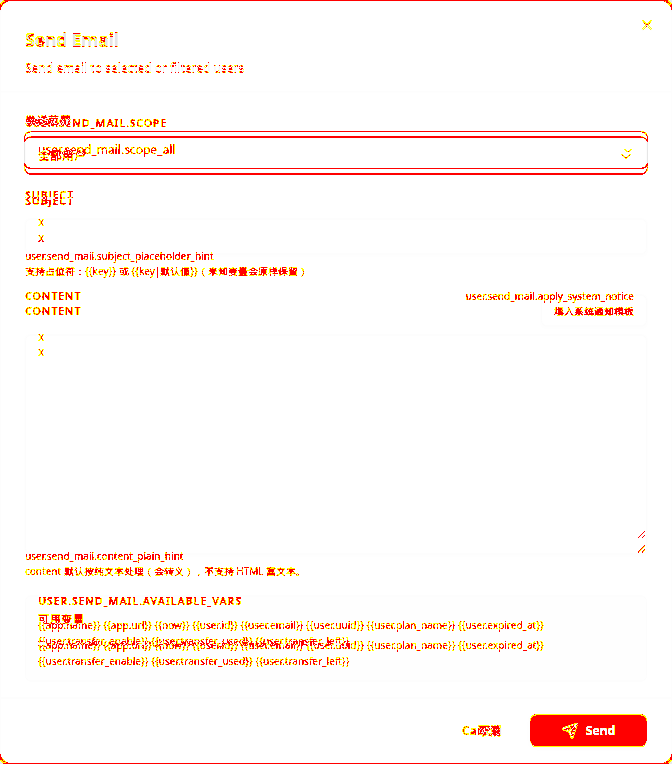
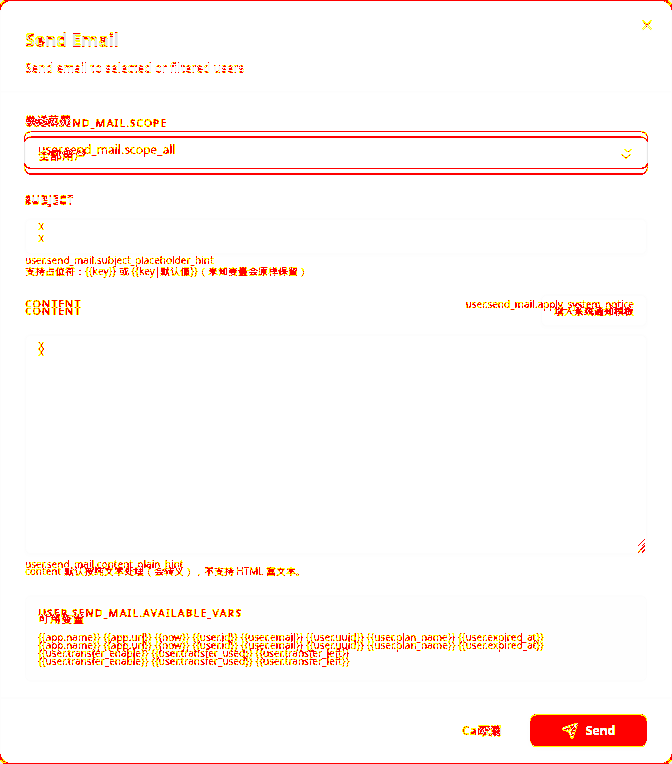
fix(admin): dialog layout parity round 2 — plan prices, user-edit sheet, gift flat sections
- Plan add: remove per-period ¥ prefix spans, xb-stack-gap rhythm, h=810
- User edit: unwrap flex wrapper so fields match legacy space-y-2 blocks
- User create: @ separator as span, tighter grid gap
- User mail: xb-stack-gap form rhythm, fixed textarea height
- Gift template: remove rounded-xl card wrappers, h=810
- Server add: h=838 to match 7001 screenshot dimensions
- Login: bg-white container

diff --git a/frontend/admin/src/pages/modules/UserPage.tsx b/frontend/admin/src/pages/modules/UserPage.tsx
@@ -1142,8 +1142,8 @@ export default function UserPage() {
               {t('user.send_mail.description')}
             </DialogDescription>
           </DialogHeader>
-          <div className="min-h-0 flex-1 overflow-y-auto bg-background">
-            <div className="space-y-4 px-6 py-4 text-sm">
+          <div className="min-h-0 flex-1 overflow-y-auto">
+            <div className="xb-stack-gap px-6 py-4 text-sm">
               <div className="space-y-2">
                 <label className={dialogFieldLabelCls}>{t('user.send_mail.scope')}</label>
                 <Select
@@ -1201,7 +1201,7 @@ export default function UserPage() {
                 </div>
                 <textarea
                   id="mail-content"
-                  className={`${textareaCls} min-h-[220px] font-mono text-xs`}
+                  className={`${inputCls} !min-h-[220px] py-2 font-mono text-xs`}
                   value={mailContent}
                   onChange={(e) => setMailContent(e.target.value)}
                   placeholder={t('user.send_mail.content_placeholder')}
@@ -1266,7 +1266,7 @@ export default function UserPage() {
             <DialogTitle>{t('user.generate.title')}</DialogTitle>
           </DialogHeader>
           <div className="min-h-0 flex-1 overflow-y-auto">
-            <div className="space-y-4 px-6 py-4 text-sm">
+            <div className="xb-stack-gap px-6 py-4 text-sm">
             <div className="space-y-2">
               <Label className={dialogFieldLabelCls}>
                 {t('user.generate.form.email')}
@@ -1283,13 +1283,13 @@ export default function UserPage() {
                     }
                   />
                 ) : null}
-                <div
-                  className={`flex h-9 shrink-0 items-center border-y border-input bg-muted/30 px-3 font-mono text-xs text-muted-foreground ${
+                <span
+                  className={`inline-flex h-9 shrink-0 items-center border-y border-input bg-muted/30 px-3 font-mono text-xs text-muted-foreground ${
                     form.generate_count ? 'rounded-l-md border-l' : 'border-l-0'
                   }`}
                 >
                   @
-                </div>
+                </span>
                 <input
                   className={`${inputCls} ${dialogInputCls} min-w-0 flex-[4] rounded-l-none rounded-r-md border border-l-0 border-input`}
                   placeholder={t('user.generate.form.email_domain')}
@@ -1310,7 +1310,7 @@ export default function UserPage() {
                 onChange={(e) => setForm((f) => ({ ...f, password: e.target.value }))}
               />
             </div>
-            <div className="grid grid-cols-2 gap-4">
+            <div className="grid grid-cols-2 gap-2">
               <div className="space-y-2">
                 <Label className={dialogFieldLabelCls}>
                   {t('user.generate.form.expire_time')}
@@ -1385,7 +1385,6 @@ export default function UserPage() {
             <SheetTitle>{t('user.edit.title')}</SheetTitle>
           </SheetHeader>
           <div className="min-h-0 flex-1 overflow-y-auto px-6 py-4 text-sm">
-            <div className="flex flex-col gap-2">
               <div className="space-y-2">
                 <Label className={dialogFieldLabelCls}>
                   {t('user.edit.form.email')}
@@ -1644,13 +1643,12 @@ export default function UserPage() {
                   {t('user.edit.form.remarks')}
                 </Label>
                 <textarea
-                  className={`${textareaCls} min-h-[96px]`}
+                  className="flex !min-h-[96px] w-full rounded-md border border-input bg-transparent px-3 py-2 text-sm shadow-sm placeholder:text-muted-foreground focus-visible:outline-none focus-visible:ring-1 focus-visible:ring-ring"
                   value={String(form.remarks ?? '')}
                   onChange={(e) => setForm((f) => ({ ...f, remarks: e.target.value }))}
                   placeholder={t('user.edit.form.remarks_placeholder')}
                 />
               </div>
-            </div>
           </div>
           <SheetFooter className="shrink-0 border-t px-6 py-4">
             <Button variant="outline" onClick={() => setDialogMode(null)}>

diff --git a/frontend/admin/src/pages/modules/PlanPage.tsx b/frontend/admin/src/pages/modules/PlanPage.tsx
@@ -454,15 +454,15 @@ export default function PlanPage() {
 
       <Dialog open={dialogOpen} onOpenChange={setDialogOpen}>
         <DialogContent className="!flex h-[810px] max-h-[810px] flex-col gap-0 overflow-hidden p-0 sm:max-w-[576px]">
-          <DialogHeader className="shrink-0 space-y-1.5 border-b px-6 pb-4 pt-6 text-left">
+          <DialogHeader className="shrink-0 space-y-1.5 px-6 pb-4 pt-6 text-left">
             <DialogTitle className="text-lg tracking-tight">
               {editing
                 ? t('subscribe.plan.form.edit_title')
                 : t('subscribe.plan.form.add_title')}
             </DialogTitle>
           </DialogHeader>
-          <div className="min-h-0 flex-1 overflow-y-auto bg-background">
-          <div className="space-y-6 px-6 py-4 text-sm">
+          <div className="min-h-0 flex-1 overflow-y-auto">
+          <div className="xb-stack-gap px-6 py-4 text-sm">
             <div className="grid grid-cols-1 gap-4 md:grid-cols-2">
               <div className="space-y-1.5">
                 <Label className={dialogFieldLabelCls}>{t('subscribe.plan.form.name.label')}</Label>
@@ -629,11 +629,10 @@ export default function PlanPage() {
                     <Label className={dialogFieldLabelCls}>
                       {t(`subscribe.plan.columns.price_period.${period}`)}
                     </Label>
-                    <SuffixInput
-                      prefix="¥"
+                    <input
                       type="number"
                       step="0.01"
-                      className={dialogInputCls}
+                      className={`${inputCls} ${dialogInputCls}`}
                       value={form.prices?.[period] ?? ''}
                       onChange={(e) => setPrice(period, e.target.value)}
                     />
@@ -646,11 +645,10 @@ export default function PlanPage() {
                     <Label className={dialogFieldLabelCls}>
                       {t(`subscribe.plan.columns.price_period.${period}`)}
                     </Label>
-                    <SuffixInput
-                      prefix="¥"
+                    <input
                       type="number"
                       step="0.01"
-                      className={dialogInputCls}
+                      className={`${inputCls} ${dialogInputCls}`}
                       value={form.prices?.[period] ?? ''}
                       onChange={(e) => setPrice(period, e.target.value)}
                     />

diff --git a/frontend/admin/src/pages/modules/GiftCardPage.tsx b/frontend/admin/src/pages/modules/GiftCardPage.tsx
@@ -1353,7 +1353,7 @@ export default function GiftCardPage() {
 
         <DialogContent className="!flex h-[810px] max-h-[810px] flex-col gap-0 overflow-hidden p-0 sm:max-w-[576px]">
 
-          <DialogHeader className="shrink-0 space-y-1.5 border-b px-6 pb-4 pt-6 text-left">
+          <DialogHeader className="shrink-0 space-y-1.5 px-6 pb-4 pt-6 text-left">
 
             <DialogTitle className="text-lg tracking-tight">
 
@@ -1363,11 +1363,11 @@ export default function GiftCardPage() {
 
           </DialogHeader>
 
-          <div className="min-h-0 flex-1 overflow-y-auto bg-background">
+          <div className="min-h-0 flex-1 overflow-y-auto">
 
-            <div className="space-y-4 px-6 py-4 text-sm">
+            <div className="xb-stack-gap px-6 py-4 text-sm">
 
-              <div className="space-y-4 rounded-xl border bg-card/50 p-4">
+              <div className="xb-stack-4">
 
                 <div className="mb-2 flex items-center gap-2">
 
@@ -1485,7 +1485,7 @@ export default function GiftCardPage() {
 
 
 
-              <div className="space-y-4 rounded-xl border bg-card/50 p-4">
+              <div className="xb-stack-4">
 
                 <div className="mb-2 flex items-center gap-2">
 
@@ -1743,7 +1743,7 @@ export default function GiftCardPage() {
 
 
 
-              <div className="space-y-4 rounded-xl border bg-card/50 p-4">
+              <div className="xb-stack-4">
 
                 <div className="mb-2 flex items-center gap-2">
 
@@ -1927,7 +1927,7 @@ export default function GiftCardPage() {
 
 
 
-              <div className="space-y-4 rounded-xl border bg-card/50 p-4">
+              <div className="xb-stack-4">
 
                 <div className="mb-2 flex items-center gap-2">
 

diff --git a/frontend/admin/src/pages/LoginPage.tsx b/frontend/admin/src/pages/LoginPage.tsx
@@ -73,7 +73,7 @@ export default function LoginPage() {
   }
 
   return (
-    <div className="container relative flex min-h-svh flex-col items-center justify-center bg-primary-foreground px-4 py-8 lg:max-w-none lg:px-0">
+    <div className="container relative flex min-h-svh flex-col items-center justify-center bg-white px-4 py-8 lg:max-w-none lg:px-0">
       <div className="absolute right-4 top-4 md:right-8 md:top-8">
         <DropdownMenu>
           <DropdownMenuTrigger asChild>
